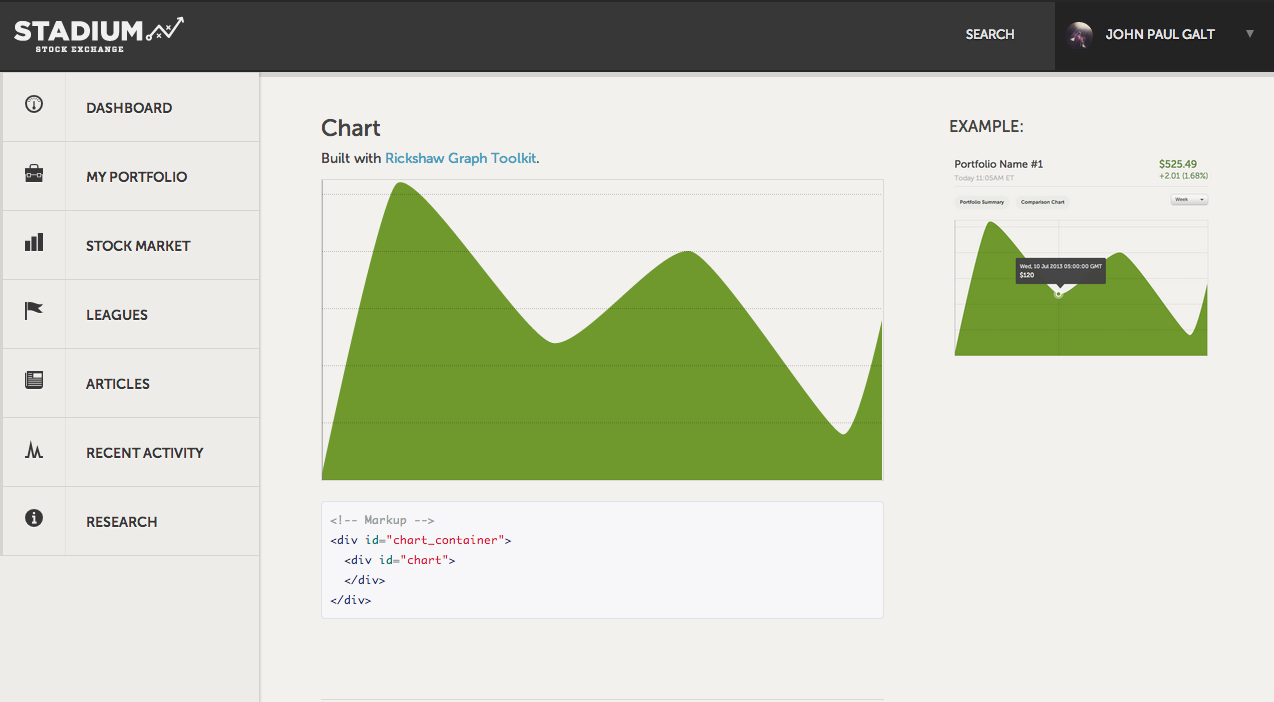
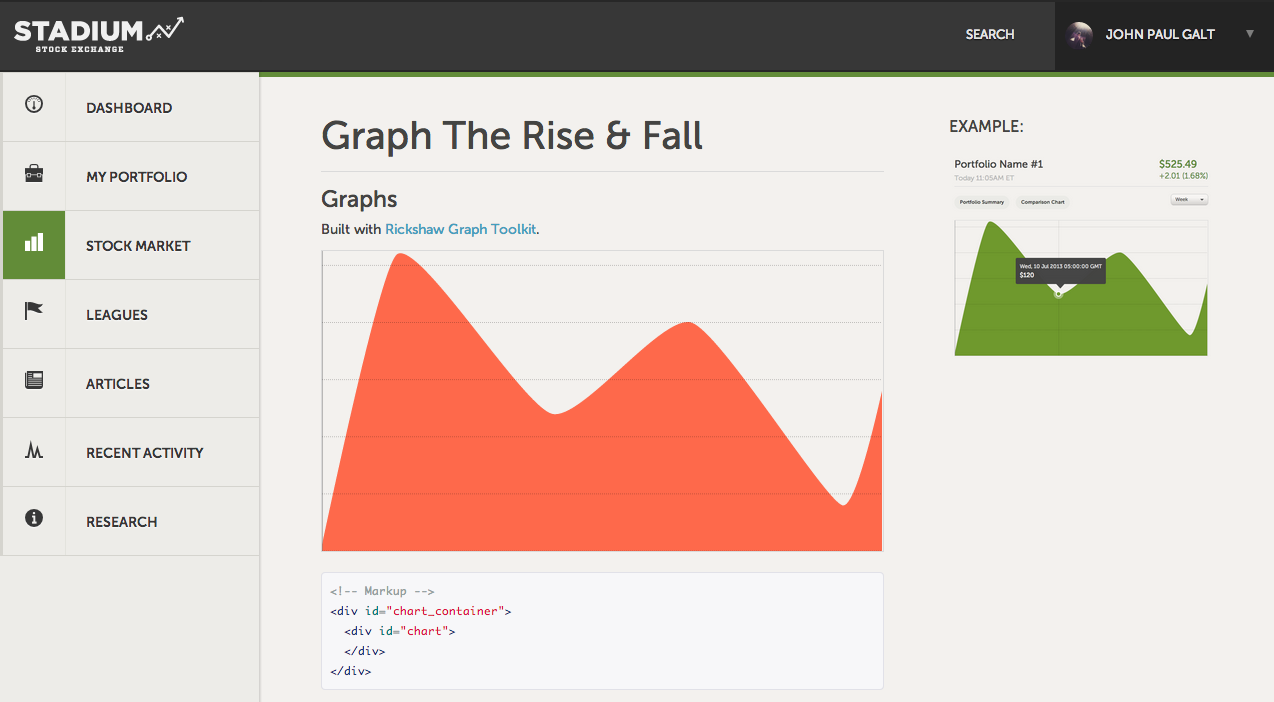
more documentation for Graphs

diff --git a/docs/graph-example.html b/docs/graph-example.html
@@ -29,7 +29,7 @@
 	    <link type="text/css" rel="stylesheet" href="../rickshaw/rickshaw.css">
 	</head>
 	
-	<body class="">
+	<body class="green">
 
 		<div class="site-wrap">
 			
@@ -76,7 +76,7 @@
 		            <nav class="nav">
 		            	<li><a href="#"><span class="ss-dashboard"></span>Dashboard</a></li>
 						<li><a href="#"><span class="ss-toolbox"></span>My Portfolio</a></li>
-						<li><a href="#"><span class="ss-barchart"></span>Stock Market</a></li>
+						<li class="active"><a href="#"><span class="ss-barchart"></span>Stock Market</a></li>
 						<li><a href="#"><span class="ss-flag"></span>Leagues</a></li>
 						<li><a href="#"><span class="ss-newspaper"></span>Articles</a></li>
 						<li><a href="#"><span class="ss-activity"></span>Recent Activity</a></li>
@@ -106,6 +106,7 @@
 									
 				<div id="chart_container">
 					<div id="chart"></div>
+					<div id="slider"></div>
 				</div>
 
 <pre class="prettyprint">
@@ -132,64 +133,145 @@
 <br><br>
 <hr>
 <h3>Render Graph</h3>
+
+<p>Populate Graph Data (x: Unix Encoded Timestamp, y: price of stock)</p>
 <p>For more information on Unix Encoded Timestamps: <a href="http://www.unixtimestamp.com/index.php">Unix Time Stamps</a>, <a href="http://www.epochconverter.com/">Epoch Converter</a>.</p>
 <pre class="prettyprint">
-&lt;!-- Graph Data (x: --Unix Encoded Timestamp--) --&gt;
+var data = [ 
+	{ x: 1368421200, y: 5.5 },
+	{ x: 1370062800, y: 260 },
+	{ x: 1373432400, y: 120 },
+	{ x: 1376456400, y: 200 },
+	{ x: 1379739600, y: 40 },
+	{ x: 1380603600, y: 140 },
+];
+</pre>
+
+
+
+<br>
+<p>Import Stadium color palette</p>
+<pre class="prettyprint">
+var palette = new Rickshaw.Color.Palette( { scheme: 'stadium' } );
+</pre>
+
+
+<br>
+<p>Specify graph details. Select graph color from the Stadium Palette by number: <br>1 = gain <br> 2 = loss</p>
+<pre class="prettyprint">
+var graph = new Rickshaw.Graph( {
+	element: document.getElementById("chart"),
+	height: 300,
+	width: 560,
+	series: [
+		{
+			data: data,
+			color: palette.color(2),
+		}
+	
+	]
+} );
+</pre>
+
+
+<br>
+<p>Specify details for Y Axis &amp; then render it.</p>
+<pre class="prettyprint">
+var yAxis = new Rickshaw.Graph.Axis.Y( {
+    graph: graph,
+    orientation: 'left',
+    element: document.getElementById('y_axis'),
+} );
+
+// Render Y Axis
+yAxis.render();
+</pre>
+
+
+<br>
+<p>Populate Tooltip with Custom Data</p>
+<pre class="prettyprint">
+var hoverDetail = new Rickshaw.Graph.HoverDetail( {
+	graph: graph,
+	formatter: function(series, x, y) {
+		var date = '<span class="date">' + new Date(x * 1000).toUTCString() + '</span>';
+		var swatch = '<span class="detail_swatch" style="background-color: ' + series.color + '"></span>';
+		var content = swatch + date + '<br>' + '<span class="data">' + "$" + (y) + '</span>' ;
+		return content;
+	}
+} );
+</pre>
+
+
+
+<br>
+<p>Render Graph</p>
+<pre class="prettyprint">
+graph.render();
+</pre>
+
+
+
+
+
+<br><br>
+<hr>
+<h3>And, finally, all together… </h3>
+<pre class="prettyprint">
 
 &lt;script&gt;
-	var data = [ 
-		{ x: 1368421200, y: 5.5 },
-		{ x: 1370062800, y: 260 },
-		{ x: 1373432400, y: 120 },
-		{ x: 1376456400, y: 200 },
-		{ x: 1379739600, y: 40 },
-		{ x: 1380603600, y: 140 },
-	];
+// Populate Graph Data (x: Unix Encoded Timestamp, y: price of stock)
+var data = [ 
+	{ x: 1368421200, y: 5.5 },
+	{ x: 1370062800, y: 260 },
+	{ x: 1373432400, y: 120 },
+	{ x: 1376456400, y: 200 },
+	{ x: 1379739600, y: 40 },
+	{ x: 1380603600, y: 140 },
+];
 
-	// Import Color Palette
-	// var palette = new Rickshaw.Color.Palette();
+// Import Color Palette
+// var palette = new Rickshaw.Color.Palette();
+var palette = new Rickshaw.Color.Palette( { scheme: 'stadium' } );
 
-	// Graph Specs
-	var graph = new Rickshaw.Graph( {
-		element: document.getElementById("chart"),
-		height: 300,
-		width: 560,
-		series: [
-			{
-				// name: "SMU",
-				data: data,
-				color: "#6f992d"
-				// palette.color()
-			}
-		
-		]
-	} );
-
-	// Display Y Axis
-	var yAxis = new Rickshaw.Graph.Axis.Y( {
-	    graph: graph,
-	    orientation: 'left',
-	    element: document.getElementById('y_axis'),
-	} );
-
-	// Render Y Axis
-	yAxis.render();
-
-	// Populate Tooltip with Custom Data
-	var hoverDetail = new Rickshaw.Graph.HoverDetail( {
-		graph: graph,
-		formatter: function(series, x, y) {
-			var date = '<span class="date">' + new Date(x * 1000).toUTCString() + '</span>';
-			var swatch = '<span class="detail_swatch" style="background-color: ' + series.color + '"></span>';
-			// var content = swatch + date + '<br>' + '<span class="data">' + series.name + ": $" + (y) + '</span>' ;
-			// without series name:
-			var content = swatch + date + '<br>' + '<span class="data">' + "$" + (y) + '</span>' ;
-			return content;
+// Graph Specs
+var graph = new Rickshaw.Graph( {
+	element: document.getElementById("chart"),
+	height: 300,
+	width: 560,
+	series: [
+		{
+			data: data,
+			color: palette.color(2),
 		}
-	} );
+	
+	]
+} );
 
-	// Render Graph
-	graph.render();
+// Display Y Axis
+var yAxis = new Rickshaw.Graph.Axis.Y( {
+    graph: graph,
+    orientation: 'left',
+    element: document.getElementById('y_axis'),
+} );
+
+// Render Y Axis
+yAxis.render();
+
+// Populate Tooltip with Custom Data
+var hoverDetail = new Rickshaw.Graph.HoverDetail( {
+	graph: graph,
+	formatter: function(series, x, y) {
+		var date = '<span class="date">' + new Date(x * 1000).toUTCString() + '</span>';
+		var swatch = '<span class="detail_swatch" style="background-color: ' + series.color + '"></span>';
+		var content = swatch + date + '<br>' + '<span class="data">' + "$" + (y) + '</span>' ;
+		return content;
+	}
+} );
+
+
+// Render Graph
+graph.render();
 &lt;/script&gt;
 </pre>
 
@@ -222,6 +304,8 @@
 		<script src="../rickshaw/d3.min.js"></script>
 		<script src="../rickshaw/d3.layout.min.js"></script>
 		<script src="../rickshaw/rickshaw.min.js"></script>
+		<script src="../rickshaw/stadium-graph-colors.js"></script>
+
 	    <script>
 
 		// Graph Data (x: --Unix Encoded Timestamp--)
@@ -236,6 +320,7 @@
 
 		// Import Color Palette
 		// var palette = new Rickshaw.Color.Palette();
+		var palette = new Rickshaw.Color.Palette( { scheme: 'stadium' } );
 
 		// Graph Specs
 		var graph = new Rickshaw.Graph( {
@@ -244,10 +329,8 @@
 			width: 560,
 			series: [
 				{
-					// name: "SMU",
 					data: data,
-					color: "#6f992d"
-					// palette.color()
+					color: palette.color(2),
 				}
 			
 			]
@@ -269,12 +352,11 @@
 			formatter: function(series, x, y) {
 				var date = '<span class="date">' + new Date(x * 1000).toUTCString() + '</span>';
 				var swatch = '<span class="detail_swatch" style="background-color: ' + series.color + '"></span>';
-				// var content = swatch + date + '<br>' + '<span class="data">' + series.name + ": $" + (y) + '</span>' ;
-				// without series name:
 				var content = swatch + date + '<br>' + '<span class="data">' + "$" + (y) + '</span>' ;
 				return content;
 			}
 		} );
+
 
 		// Render Graph
 		graph.render();

diff --git a/rickshaw/stadium-graph-colors.js b/rickshaw/stadium-graph-colors.js
@@ -1,0 +1,18 @@
+Rickshaw.namespace('Rickshaw.Fixtures.Color');
+
+Rickshaw.Fixtures.Color = function() {
+
+	this.schemes = {};
+
+	this.schemes.stadium = [
+		'#6f992d', // green
+		'#fe694b', // red
+		// '#e2b747', // orange
+		// '#439fbf', // blue
+		// '#e2b747', // yellow
+		// '#5a62d2', // purple
+		// '#47b3a4', // mint
+		// '#272727' // gray
+	].reverse();
+
+};
